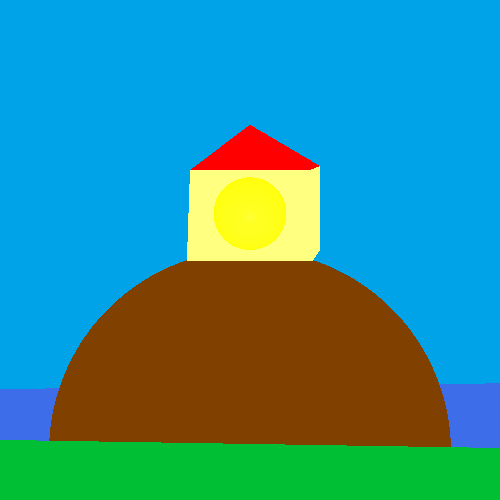
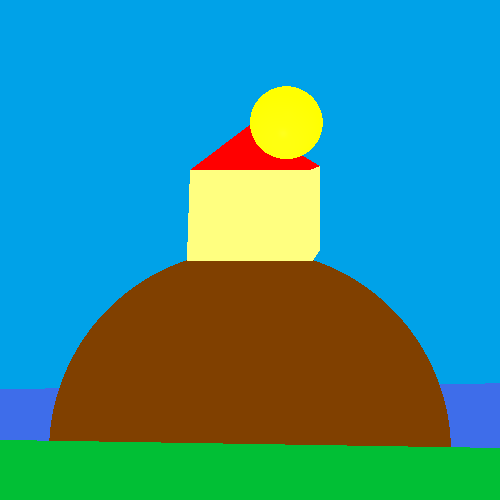
test: move sphere in custom test scene

Changed region(s): [[0.48, 0.15, 0.66, 0.33], [0.42, 0.33, 0.57, 0.51]]

diff --git a/unitTests/renderer/ReflectionRefractionTests.java b/unitTests/renderer/ReflectionRefractionTests.java
@@ -219,7 +219,7 @@ class ReflectionRefractionTests {
 				new Triangle(new Point(1500, -1400, -2000),new Point(1500,-800,-2000),new Point(-1500,-1400,-1500)).setEmission(new Color(62,109,234)),
 
 				//for shadow
-				new Sphere(new Point(0, 100, 4500), 100).setEmission(new Color(yellow)) //
+				new Sphere(new Point(100, 350, 4500), 100).setEmission(new Color(yellow)) //
 						.setMaterial(new Material().setkD(0.2).setkS(0.2).setnShininess(30).setkT(new Double3(0.3)))
 
 		);
